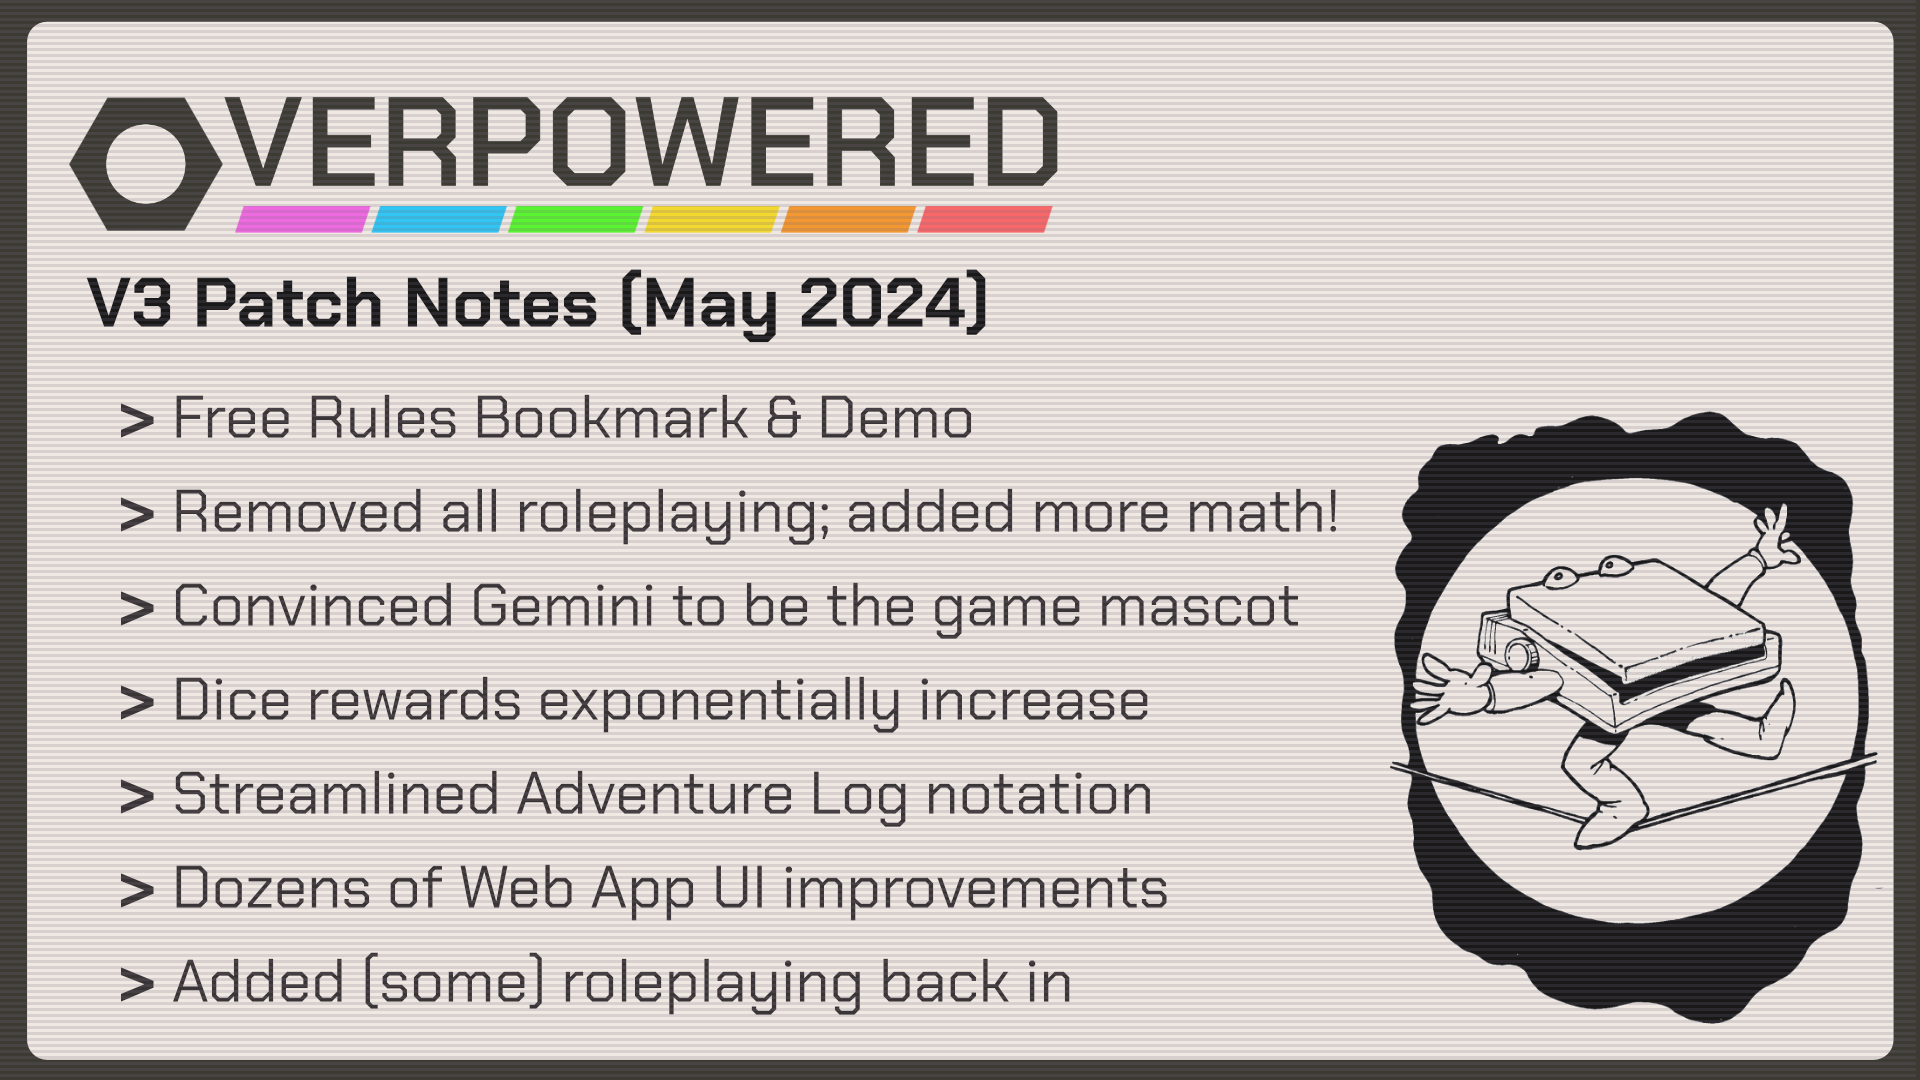
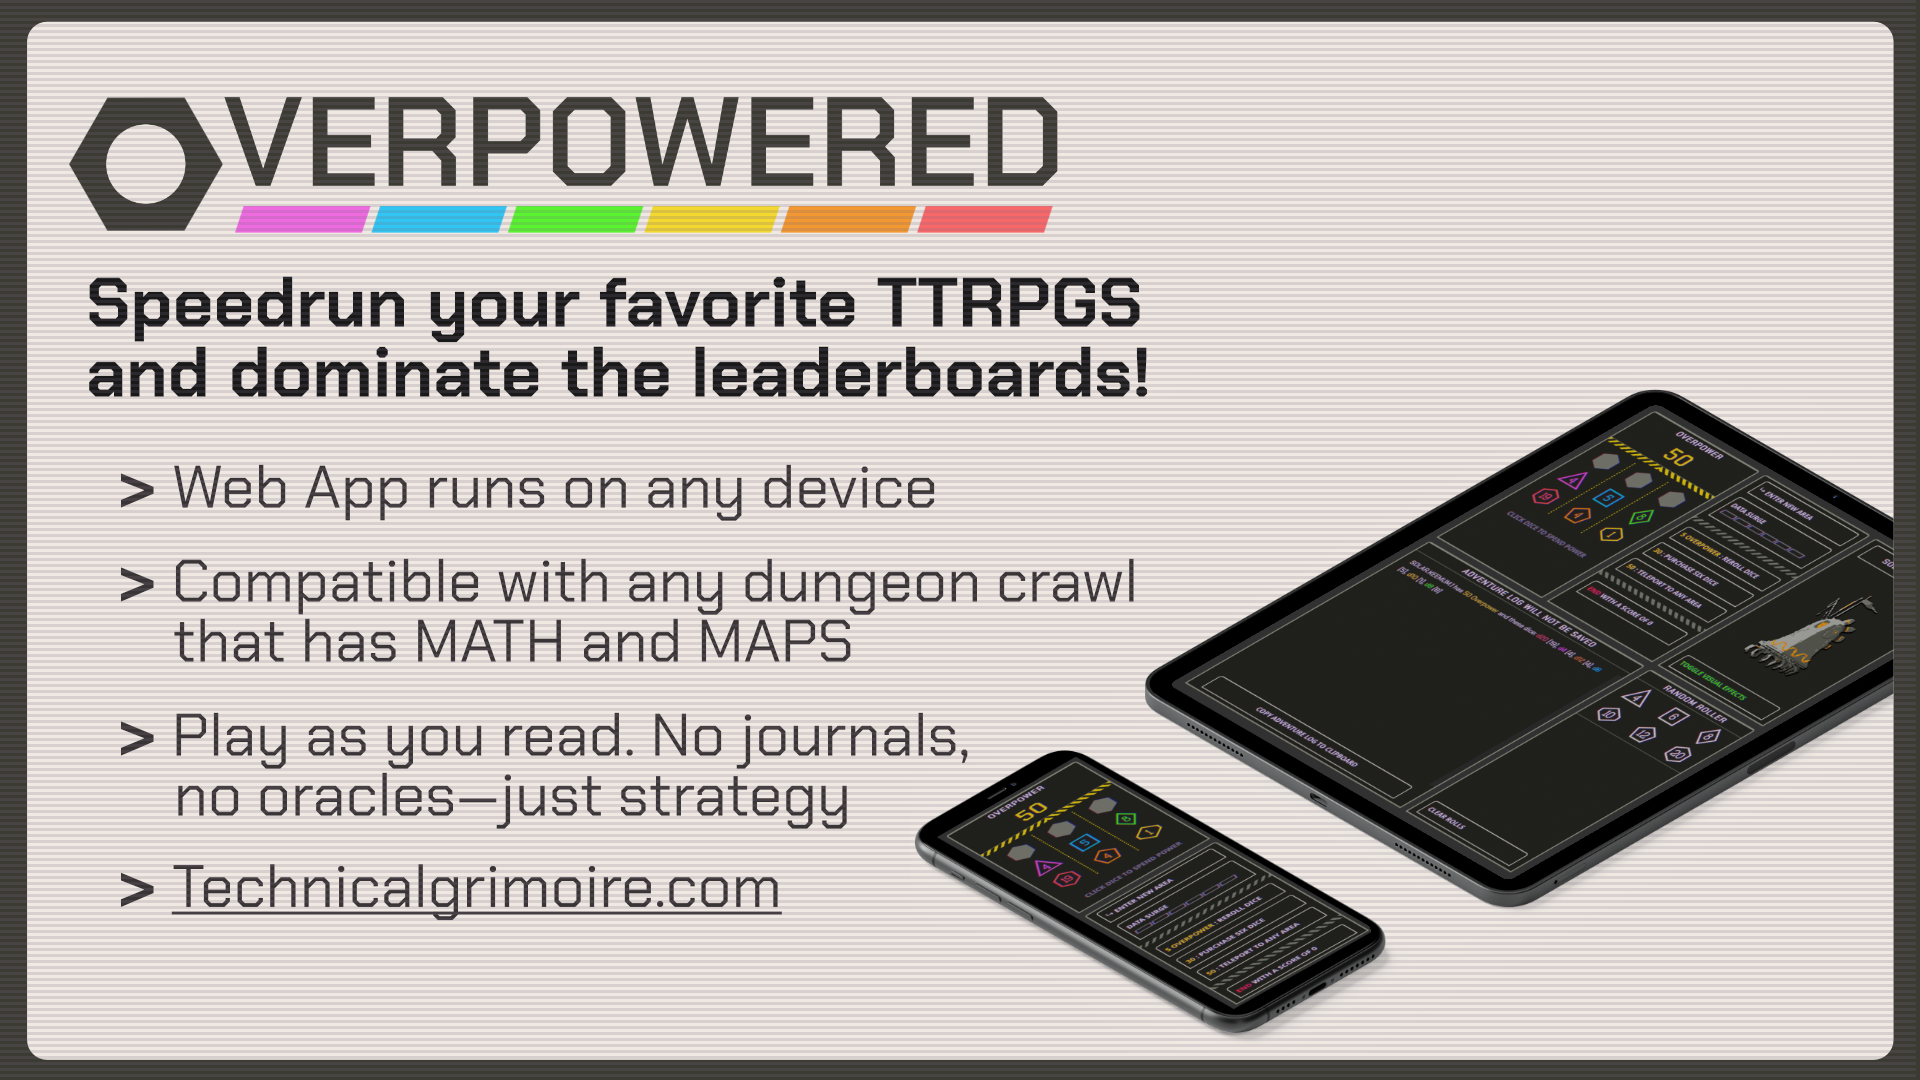
uploaded final V3 version

Changed region(s): [[0.0312, 0.2444, 1.0, 0.9778]]

diff --git a/_games/overpowered.md b/_games/overpowered.md
@@ -4,8 +4,8 @@ layout: project
 title: Overpowered
 caption: $10 Digital Game
 screenshot:
-  src: /images/Overpowered/banner.png
-image: /images/Overpowered/banner.png
+  src: /images/overpowered/marketing_1.png
+image: /images/overpowered/marketing_1.png
 hide_description: true
 permalink: overpowered
 featured: false
@@ -13,9 +13,12 @@ redirect_from:
   - "/overpowered-solo-roleplaying"
 ---
 
-Overpowered is a solo framework for speedrunning your favorite tabletop rpg adventures. Manage your power, choose your path, and perfect your strategy. Achieve a high score and dominate the online leaderboards. Try the demo adventure for free right now!
+Overpowered is a solo framework that allows you to quickly play through dungeon crawl modules. Manage your bot’s power, choose your path, and perfect your strategy. 
 
-**This game is in early access.** The PDF will be improved upon and expanded over the next few months. Later this year we will fund a print run. Join the newsletter for updates!
+- Play as you read. No journals, no oracles—just resource management and strategy.
+- Compatible with any dungeon crawl that features math and maps.
+- A game for game masters. Play as you prep your sessions.
+- Use the free Web App to pilot your bot through the adventure and achieve a high score!
 
 <div class="shopping-buttons" style="border: none;">
 <a target="_blank" href="https://technicalgrimoire.itch.io/overpowered" class="btn btn-primary itchBTN">PDF Manual: $10<br>at Itch.io</a>
@@ -31,21 +34,20 @@ Overpowered is a solo framework for speedrunning your favorite tabletop rpg adve
 
 <div id="images" class="shopping-images">
 <p style="margin: 0px;padding:0px;text-align:center;font-style:italic;">Click to view</p>
-<img src="/images/overpowered/Overpowered_Title.png" alt="an image of the front cover of Overpowered">
-<img src="/images/Overpowered/Overpowered_1.png" alt="Spread of Overpowered">
-<img src="/images/Overpowered/Overpowered_2.png" alt="Spread of Overpowered">
-<img src="/images/Overpowered/marketing_3.png" alt="Early Access Marketing">
-<img src="/images/Overpowered/marketing_4.png" alt="Patch Notes Marketing">
+<img src="/images/overpowered/V3Manual_1.png" alt="an image of the front cover of Overpowered">
+<img src="/images/overpowered/pages_1.png" alt="table of contents">
+<img src="/images/Overpowered/marketing_4.png" alt="Wep app features">
+<img src="/images/Overpowered/pages_2.png" alt="Spread of Overpowered">
+<img src="/images/Overpowered/pages_3.png" alt="Early Access Marketing">
+<img src="/images/Overpowered/pages_4.png" alt="Patch Notes Marketing">
 </div>
 
-## The Early Access PDF Includes:
+## The V3 PDF Includes:
 
-- A printable bookmark with all the rules.
 - 50+ Pages of examples, adventures, strategy tips, and more!
-- Compatible with any adventure that has math and maps.
-- Play as you read. No journals, no oracles—just strategy.
-- A game for game masters. Play as you prep your sessions.
-- A 5-minute tutorial adventure.
+- A tutorial adventure.
+- A printable bookmark with all the rules.
+- 6 ready-to-play adventure keys.
 
 ## What People are Saying
 
